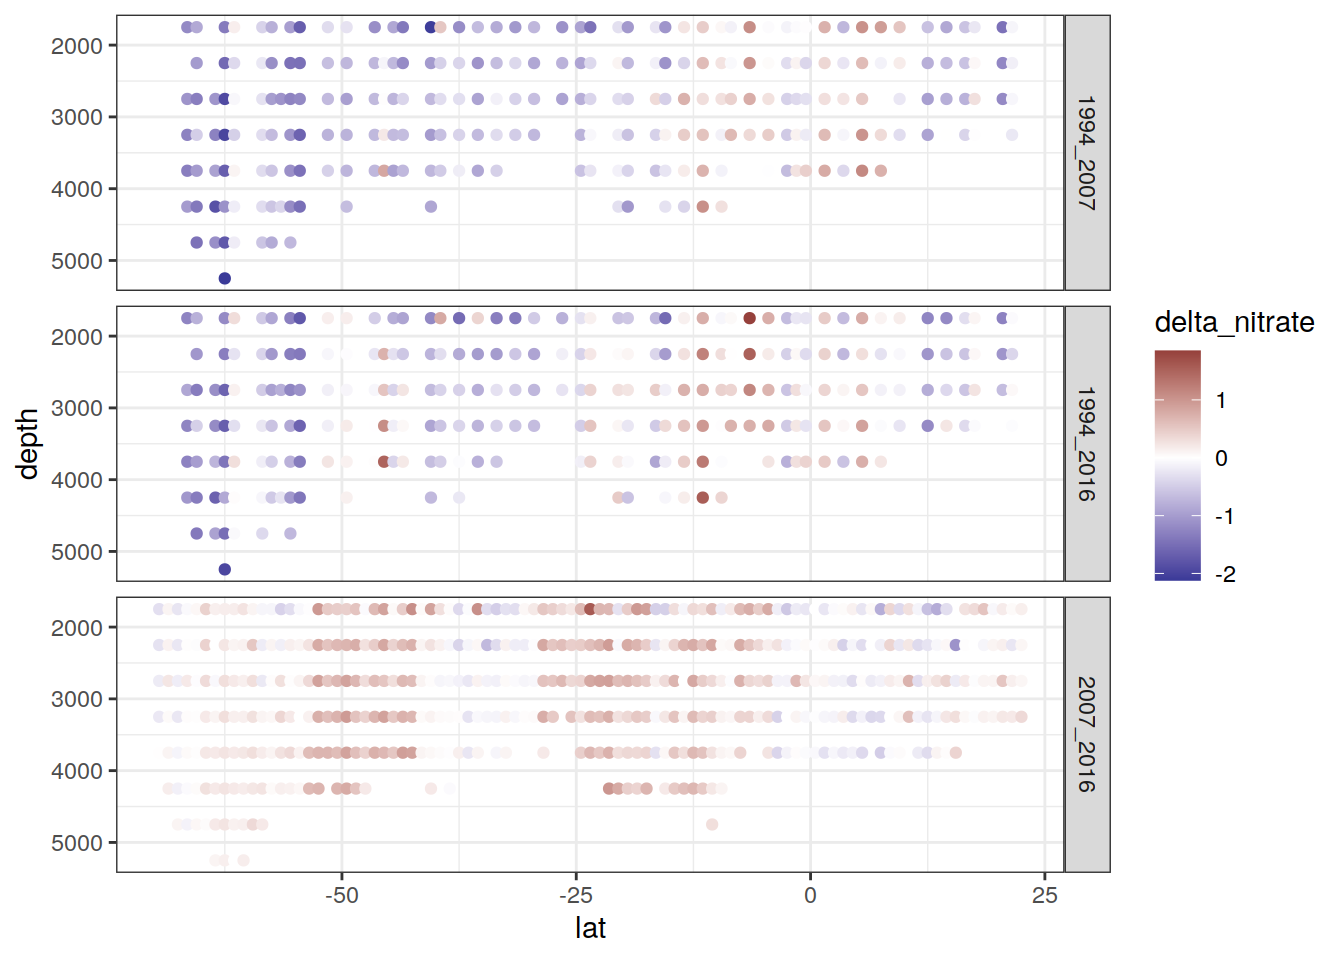
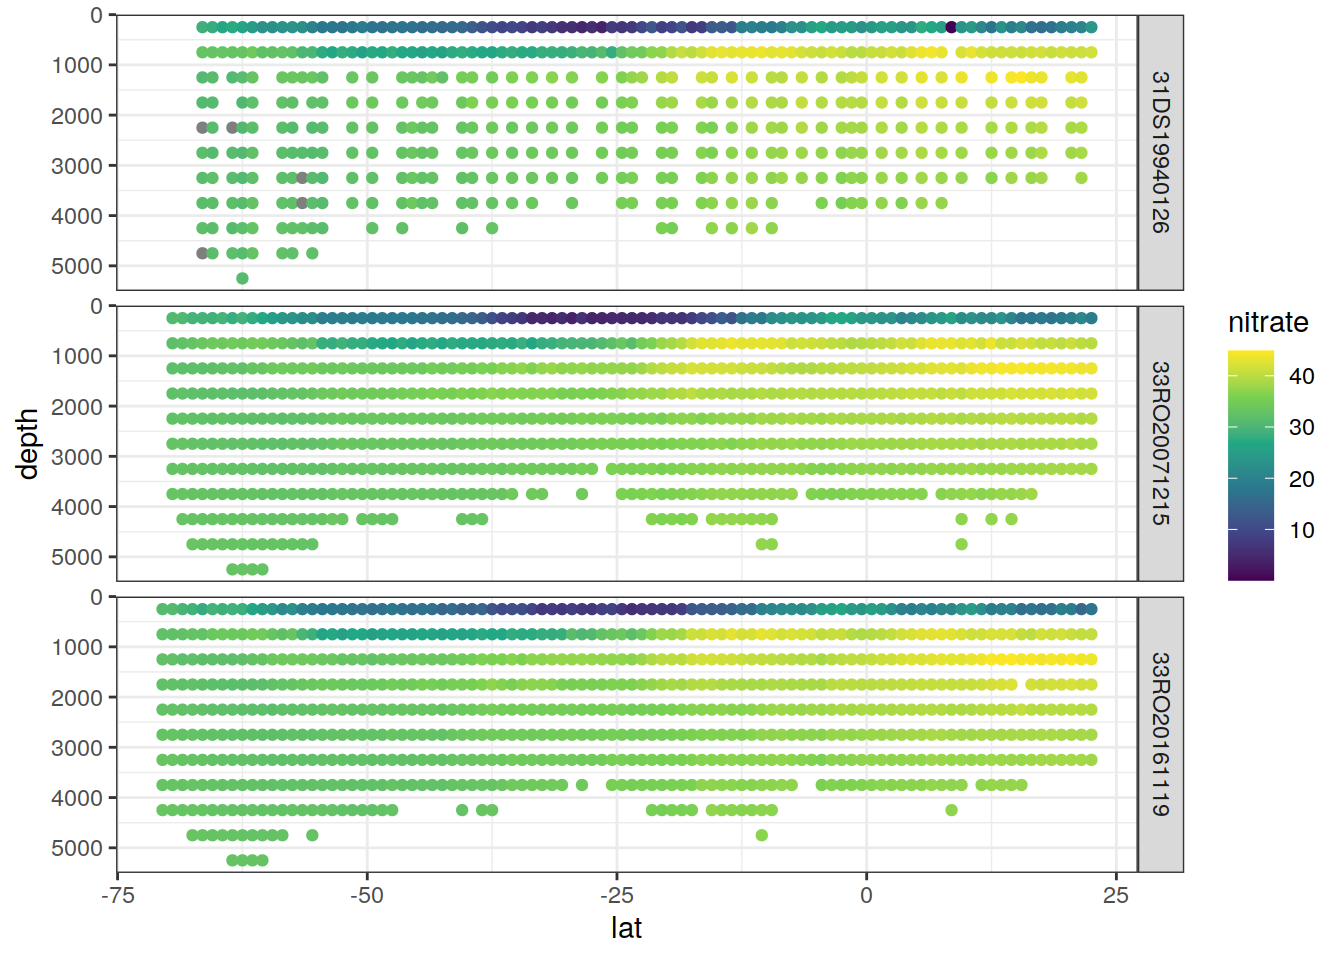
Build site.

diff --git a/docs/read_GLODAPv2_2021.html b/docs/read_GLODAPv2_2021.html
@@ -444,7 +444,7 @@ div.tocify {
 
 <h1 class="title toc-ignore">GLODAPv2_2020</h1>
 <h4 class="author">Jens Daniel Müller</h4>
-<h4 class="date">13 December, 2021</h4>
+<h4 class="date">14 December, 2021</h4>
 
 </div>
 
@@ -469,7 +469,7 @@ div.tocify {
 <div class="tab-content">
 <div id="summary" class="tab-pane fade in active">
 <p>
-<strong>Last updated:</strong> 2021-12-13
+<strong>Last updated:</strong> 2021-12-14
 </p>
 <p>
 <strong>Checks:</strong> <span class="glyphicon glyphicon-ok text-success" aria-hidden="true"></span> 7 <span class="glyphicon glyphicon-exclamation-sign text-danger" aria-hidden="true"></span> 0
@@ -560,16 +560,16 @@ This reproducible <a href="http://rmarkdown.rstudio.com">R Markdown</a> analysis
 <div class="panel panel-default">
 <div class="panel-heading">
 <p class="panel-title">
-<a data-toggle="collapse" data-parent="#workflowr-checks" href="#strongRepositoryversionstrongahrefhttpsgithubcomjensdanielmuelleremlrobspreprocessingtree4c002c1958c4a0506d71d544bd30930aa2aba829targetblank4c002c1a"> <span class="glyphicon glyphicon-ok text-success" aria-hidden="true"></span> <strong>Repository version:</strong> <a href="https://github.com/jens-daniel-mueller/emlr_obs_preprocessing/tree/4c002c1958c4a0506d71d544bd30930aa2aba829" target="_blank">4c002c1</a> </a>
+<a data-toggle="collapse" data-parent="#workflowr-checks" href="#strongRepositoryversionstrongahrefhttpsgithubcomjensdanielmuelleremlrobspreprocessingtree1acf7ff1ce89b0c9c2bd26bb87c5ee8df1827677targetblank1acf7ffa"> <span class="glyphicon glyphicon-ok text-success" aria-hidden="true"></span> <strong>Repository version:</strong> <a href="https://github.com/jens-daniel-mueller/emlr_obs_preprocessing/tree/1acf7ff1ce89b0c9c2bd26bb87c5ee8df1827677" target="_blank">1acf7ff</a> </a>
 </p>
 </div>
[2 lines of base64/hex data omitted]
 <div class="panel-body">
 <p>
 Great! You are using Git for version control. Tracking code development and connecting the code version to the results is critical for reproducibility.
 </p>
 <p>
-The results in this page were generated with repository version <a href="https://github.com/jens-daniel-mueller/emlr_obs_preprocessing/tree/4c002c1958c4a0506d71d544bd30930aa2aba829" target="_blank">4c002c1</a>. See the <em>Past versions</em> tab to see a history of the changes made to the R Markdown and HTML files.
+The results in this page were generated with repository version <a href="https://github.com/jens-daniel-mueller/emlr_obs_preprocessing/tree/1acf7ff1ce89b0c9c2bd26bb87c5ee8df1827677" target="_blank">1acf7ff</a>. See the <em>Past versions</em> tab to see a history of the changes made to the R Markdown and HTML files.
 </p>
 <p>
 Note that you need to be careful to ensure that all relevant files for the analysis have been committed to Git prior to generating the results (you can use <code>wflow_publish</code> or <code>wflow_git_commit</code>). workflowr only checks the R Markdown file, but you know if there are other scripts or data files that it depends on. Below is the status of the Git repository when the results were generated:
@@ -578,6 +578,7 @@ Note that you need to be careful to ensure that all relevant files for the analy
 Ignored files:
     Ignored:    .Rhistory
     Ignored:    .Rproj.user/
+    Ignored:    analysis/figure/
     Ignored:    data/
     Ignored:    output/
 
@@ -621,6 +622,40 @@ Message
 </tr>
 </thead>
 <tbody>
+<tr>
+<td>
+Rmd
+</td>
+<td>
+<a href="https://github.com/jens-daniel-mueller/emlr_obs_preprocessing/blob/1acf7ff1ce89b0c9c2bd26bb87c5ee8df1827677/analysis/read_GLODAPv2_2021.Rmd" target="_blank">1acf7ff</a>
+</td>
+<td>
+jens-daniel-mueller
+</td>
+<td>
+2021-12-14
+</td>
+<td>
+checked P18 nitrate data - quadratic fit
+</td>
+</tr>
+<tr>
+<td>
+html
+</td>
+<td>
+<a href="https://rawcdn.githack.com/jens-daniel-mueller/emlr_obs_preprocessing/b68b58e364dea9131dedd7c350a5dcb25cb692bd/docs/read_GLODAPv2_2021.html" target="_blank">b68b58e</a>
+</td>
+<td>
+jens-daniel-mueller
+</td>
+<td>
+2021-12-13
+</td>
+<td>
+Build site.
+</td>
+</tr>
 <tr>
 <td>
 Rmd
@@ -2218,73 +2253,94 @@ P18 &lt;- P18 %&gt;%
                                 &quot;33RO20071215&quot;,
                                 &quot;31DS19940126&quot;))
 
-
 P18 %&gt;% 
-  filter(!is.na(nitrate)) %&gt;% 
-  ggplot(aes(lat, depth, col= nitrate)) +
+  ggplot(aes(date, lat)) +
   geom_point() +
-  scale_color_viridis_c() +
-  scale_y_reverse() +
-  facet_grid(cruise_expocode ~.)</code></pre>
+  facet_grid() +
+  facet_wrap(cruise_expocode ~., scales = &quot;free_x&quot;, ncol = 1)</code></pre>
 <p><img src="figure/read_GLODAPv2_2021.Rmd/P18_nitrate-1.png" width="672" style="display: block; margin: auto;" /></p>
-<pre class="r"><code>P18_grid &lt;- P18 %&gt;% 
-  select(lat, lon, depth, cruise_expocode, nitrate) %&gt;% 
-  mutate(depth = as.numeric(as.character(cut(depth,
-                     seq(0,1e4, 500), 
-                     seq(250,1e4,500))))) %&gt;% 
-  group_by(lat, depth, cruise_expocode) %&gt;% 
-  summarise(nitrate = mean(nitrate, na.rm=TRUE)) %&gt;% 
-  ungroup()
-
-P18_grid %&gt;% 
+<p>
+<button type="button" class="btn btn-default btn-xs btn-workflowr btn-workflowr-fig" data-toggle="collapse" data-target="#fig-P18_nitrate-1">
+Past versions of P18_nitrate-1.png
+</button>
+</p>
+<div id="fig-P18_nitrate-1" class="collapse">
+<div class="table-responsive">
+<table class="table table-condensed table-hover">
+<thead>
+<tr>
+<th>
+Version
+</th>
+<th>
+Author
+</th>
+<th>
+Date
+</th>
+</tr>
+</thead>
+<tbody>
+<tr>
+<td>
+<a href="https://github.com/jens-daniel-mueller/emlr_obs_preprocessing/blob/b68b58e364dea9131dedd7c350a5dcb25cb692bd/docs/figure/read_GLODAPv2_2021.Rmd/P18_nitrate-1.png" target="_blank">b68b58e</a>
+</td>
+<td>
+jens-daniel-mueller
+</td>
+<td>
+2021-12-13
+</td>
+</tr>
+</tbody>
+</table>
+</div>
+</div>
+<pre class="r"><code>P18 %&gt;% 
+  filter(!is.na(nitrate)) %&gt;% 
   ggplot(aes(lat, depth, col= nitrate)) +
   geom_point() +
   scale_color_viridis_c() +
   scale_y_reverse() +
   facet_grid(cruise_expocode ~.)</code></pre>
 <p><img src="figure/read_GLODAPv2_2021.Rmd/P18_nitrate-2.png" width="672" style="display: block; margin: auto;" /></p>
-<pre class="r"><code>P18_grid %&gt;% 
-  pivot_wider(names_from = cruise_expocode,
-              values_from = nitrate) %&gt;% 
-  mutate(delta_nitrate_1994_2007 = `31DS19940126` - `33RO20071215`,
-         delta_nitrate_1994_2016 = `31DS19940126` - `33RO20161119`,
-         delta_nitrate_2007_2016 = `33RO20071215` - `33RO20161119`) %&gt;% 
-  select(lat, depth, starts_with(&quot;delta&quot;)) %&gt;% 
-  pivot_longer(starts_with(&quot;delta&quot;),
-               values_to = &quot;delta_nitrate&quot;,
-               names_to = &quot;years&quot;,
-               names_prefix = &quot;delta_nitrate_&quot;) %&gt;% 
-  filter(delta_nitrate &gt; -20,
-         depth &gt; 1500) %&gt;% 
-  ggplot(aes(lat, depth, col= delta_nitrate)) +
-  geom_point() +
-  scale_color_divergent() +
-  scale_y_reverse() +
-  facet_grid(years ~.)</code></pre>
-<p><img src="figure/read_GLODAPv2_2021.Rmd/P18_nitrate-3.png" width="672" style="display: block; margin: auto;" /></p>
-<pre class="r"><code>rm(P18, P18_grid)</code></pre>
-<pre class="r"><code>P18 &lt;- full_join(
-  GLODAP,
-  GLODAP_expocodes
-)
-
-P18 &lt;- P18 %&gt;% 
-  filter(cruise_expocode %in% c(&quot;33RO20161119&quot;,
-                                &quot;33RO20071215&quot;,
-                                &quot;31DS19940126&quot;))
-
-P18 &lt;- P18 %&gt;% 
-  mutate(nitrate = nitrate / phosphate)
-
-
-P18 %&gt;% 
-  filter(!is.na(nitrate)) %&gt;% 
-  ggplot(aes(lat, depth, col= nitrate)) +
-  geom_point() +
-  scale_color_viridis_c() +
-  scale_y_reverse() +
-  facet_grid(cruise_expocode ~.)</code></pre>
-<p><img src="figure/read_GLODAPv2_2021.Rmd/P18_nitrate_phosphate-1.png" width="672" style="display: block; margin: auto;" /></p>
+<p>
+<button type="button" class="btn btn-default btn-xs btn-workflowr btn-workflowr-fig" data-toggle="collapse" data-target="#fig-P18_nitrate-2">
+Past versions of P18_nitrate-2.png
+</button>
+</p>
+<div id="fig-P18_nitrate-2" class="collapse">
+<div class="table-responsive">
+<table class="table table-condensed table-hover">
+<thead>
+<tr>
+<th>
+Version
+</th>
+<th>
+Author
+</th>
+<th>
+Date
+</th>
+</tr>
+</thead>
+<tbody>
+<tr>
+<td>
+<a href="https://github.com/jens-daniel-mueller/emlr_obs_preprocessing/blob/b68b58e364dea9131dedd7c350a5dcb25cb692bd/docs/figure/read_GLODAPv2_2021.Rmd/P18_nitrate-2.png" target="_blank">b68b58e</a>
+</td>
+<td>
+jens-daniel-mueller
+</td>
+<td>
+2021-12-13
+</td>
+</tr>
+</tbody>
+</table>
+</div>
+</div>
 <pre class="r"><code>P18_grid &lt;- P18 %&gt;% 
   select(lat, lon, depth, cruise_expocode, nitrate) %&gt;% 
   mutate(depth = as.numeric(as.character(cut(depth,
@@ -2300,27 +2356,112 @@ P18_grid %&gt;%
   scale_color_viridis_c() +
   scale_y_reverse() +
   facet_grid(cruise_expocode ~.)</code></pre>
-<p><img src="figure/read_GLODAPv2_2021.Rmd/P18_nitrate_phosphate-2.png" width="672" style="display: block; margin: auto;" /></p>
-<pre class="r"><code>P18_grid %&gt;% 
+<p><img src="figure/read_GLODAPv2_2021.Rmd/P18_nitrate-3.png" width="672" style="display: block; margin: auto;" /></p>
+<p>
+<button type="button" class="btn btn-default btn-xs btn-workflowr btn-workflowr-fig" data-toggle="collapse" data-target="#fig-P18_nitrate-3">
+Past versions of P18_nitrate-3.png
+</button>
+</p>
+<div id="fig-P18_nitrate-3" class="collapse">
+<div class="table-responsive">
+<table class="table table-condensed table-hover">
+<thead>
+<tr>
+<th>
+Version
+</th>
+<th>
+Author
+</th>
+<th>
+Date
+</th>
+</tr>
+</thead>
+<tbody>
+<tr>
+<td>
+<a href="https://github.com/jens-daniel-mueller/emlr_obs_preprocessing/blob/b68b58e364dea9131dedd7c350a5dcb25cb692bd/docs/figure/read_GLODAPv2_2021.Rmd/P18_nitrate-3.png" target="_blank">b68b58e</a>
+</td>
+<td>
+jens-daniel-mueller
+</td>
+<td>
+2021-12-13
+</td>
+</tr>
+</tbody>
+</table>
+</div>
+</div>
+<pre class="r"><code>P18_grid_offset &lt;- P18_grid %&gt;% 
   pivot_wider(names_from = cruise_expocode,
               values_from = nitrate) %&gt;% 
-  mutate(delta_nitrate_1994_2007 = `31DS19940126` - `33RO20071215`,
-         delta_nitrate_1994_2016 = `31DS19940126` - `33RO20161119`,
-         delta_nitrate_2007_2016 = `33RO20071215` - `33RO20161119`) %&gt;% 
+  mutate(delta_nitrate_1994_2007 = (`31DS19940126` - `33RO20071215`) / `33RO20071215`,
+         delta_nitrate_1994_2016 = (`31DS19940126` - `33RO20161119`) / `33RO20071215`,
+         delta_nitrate_2007_2016 = (`33RO20071215` - `33RO20161119`) / `33RO20071215`) %&gt;% 
   select(lat, depth, starts_with(&quot;delta&quot;)) %&gt;% 
   pivot_longer(starts_with(&quot;delta&quot;),
                values_to = &quot;delta_nitrate&quot;,
                names_to = &quot;years&quot;,
                names_prefix = &quot;delta_nitrate_&quot;) %&gt;% 
   filter(delta_nitrate &gt; -20,
-         depth &gt; 1500) %&gt;% 
+         depth &gt; 1500)
+
+P18_grid_offset %&gt;% 
   ggplot(aes(lat, depth, col= delta_nitrate)) +
   geom_point() +
   scale_color_divergent() +
   scale_y_reverse() +
   facet_grid(years ~.)</code></pre>
-<p><img src="figure/read_GLODAPv2_2021.Rmd/P18_nitrate_phosphate-3.png" width="672" style="display: block; margin: auto;" /></p>
+<p><img src="figure/read_GLODAPv2_2021.Rmd/P18_nitrate-4.png" width="672" style="display: block; margin: auto;" /></p>
+<pre class="r"><code>P18_grid_offset %&gt;%
+  group_by(lat, years) %&gt;%
+  summarise(delta_nitrate = mean(delta_nitrate, na.rm = TRUE)) %&gt;%
+  ungroup() %&gt;%
+  ggplot(aes(lat, delta_nitrate, col = years, fill = years)) +
+  geom_hline(yintercept = 0) +
+  stat_smooth(method = &quot;lm&quot;, formula = y ~ x + I(x ^ 2)) +
+  geom_point() +
+  geom_line()</code></pre>
+<p><img src="figure/read_GLODAPv2_2021.Rmd/P18_nitrate-5.png" width="672" style="display: block; margin: auto;" /></p>
 <pre class="r"><code>rm(P18, P18_grid)</code></pre>
+</div>
+<div id="a16" class="section level2" number="3.4">
+<h2 number="3.4"><span class="header-section-number">3.4</span> A16</h2>
+<pre class="r"><code>A16 &lt;- full_join(
+  GLODAP,
+  GLODAP_expocodes
+)
+
+A16 &lt;- A16 %&gt;% 
+  filter(cruise_expocode %in% c(
+    &quot;33MW19930704&quot; #A16N-1993
+    ))
+
+map + 
+  geom_tile(data = A16 %&gt;% distinct(lon, lat),
+            aes(lon, lat))</code></pre>
+<p><img src="figure/read_GLODAPv2_2021.Rmd/A16-1.png" width="672" style="display: block; margin: auto;" /></p>
+<pre class="r"><code>A16 %&gt;% 
+  select(ends_with(c(&quot;qc&quot;))) %&gt;% 
+  pivot_longer(everything(),
+               names_to = &quot;flag&quot;,
+               values_to = &quot;value&quot;) %&gt;% 
+  distinct(flag, value)</code></pre>
+<pre><code>[38;5;246m# A tibble: 9 × 2[39m
+  flag        value
+  [3m[38;5;246m&lt;chr&gt;[39m[23m       [3m[38;5;246m&lt;dbl&gt;[39m[23m
+[38;5;250m1[39m salinityqc      1
+[38;5;250m2[39m oxygenqc        1
+[38;5;250m3[39m nitrateqc       1
+[38;5;250m4[39m silicateqc      1
+[38;5;250m5[39m phosphateqc     1
+[38;5;250m6[39m tco2qc          1
+[38;5;250m7[39m talkqc          1
+[38;5;250m8[39m talkqc          0
+[38;5;250m9[39m tco2qc          0</code></pre>
+<pre class="r"><code>rm(A16)</code></pre>
 </div>
 </div>
 <div id="adjustments" class="section level1" number="4">
@@ -9246,7 +9387,7 @@ loaded via a namespace (and not attached):
 [43] whisker_0.4              yaml_2.2.1               MASS_7.3-53             
 [46] grid_4.0.3               blob_1.2.1               parallel_4.0.3          
 [49] promises_1.1.1           crayon_1.3.4             lattice_0.20-41         
-[52] splines_4.0.3            haven_2.3.1              hms_0.5.3               
+[52] haven_2.3.1              splines_4.0.3            hms_0.5.3               
 [55] knitr_1.33               pillar_1.6.2             reprex_0.3.0            
 [58] glue_1.4.2               evaluate_0.14            RcppArmadillo_0.10.1.2.0
 [61] data.table_1.14.0        modelr_0.1.8             vctrs_0.3.8             
